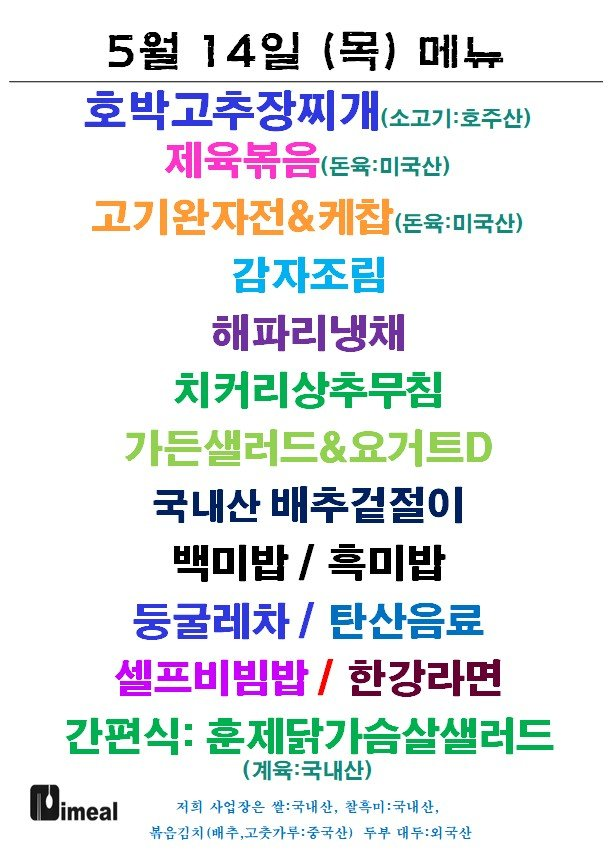
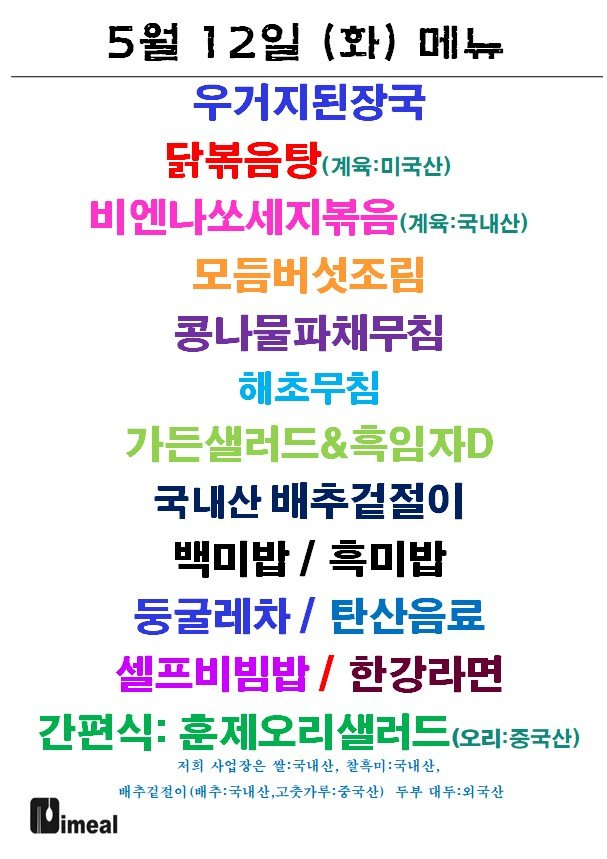
Update menu board assets

Changed region(s): [[0.0297, 0.0303, 0.9786, 0.9988]]

diff --git a/menu-today/index.html b/menu-today/index.html
@@ -209,7 +209,7 @@
 
     <section class="meta-bar">
       <div class="meta-card"><div class="meta-label">기준 날짜</div><div class="meta-value">2026년 5월 12일 화요일</div></div>
-      <div class="meta-card"><div class="meta-label">최종 가져온 시간</div><div class="meta-value">2026-05-12 10:18:07</div></div>
+      <div class="meta-card"><div class="meta-label">최종 가져온 시간</div><div class="meta-value">2026-05-12 10:33:13</div></div>
       <div class="meta-card"><div class="meta-label">확인 완료</div><div class="meta-value">10개 식당</div></div>
       <div class="meta-card"><div class="meta-label">준비중</div><div class="meta-value">3개 채널</div></div>
     </section>
@@ -225,7 +225,7 @@
             <div class="sub">현대테라타워 가산DK</div>
           </div>
         </div>
-        <div class="menu-inline-image"><img src="./images/imeal.png" alt="아이밀 식단 이미지"></div><div class="info-note">오늘 메뉴 미수집 상태입니다.</div>
+        <div class="menu-inline-image"><img src="./images/imeal.png" alt="아이밀 식단 이미지"></div><ul><li>우거지된장국</li><li>비엔나쏘세지볶음</li><li>모듬버섯조림</li><li>콩나물파채무침</li><li>해초무침</li><li>가든샐러드 &amp; 흑임자D</li><li>백미밥 / 흑미밥</li><li>여기지 재니제</li><li>닭볶음탕(계육:미국신</li><li>둥굴레차</li><li>타산을료</li><li>가펴시</li><li>거지 지니</li></ul>
       </article>
 
       <article class="restaurant-card">
@@ -265,7 +265,7 @@
             <div class="sub">가산비즈니스센터</div>
           </div>
         </div>
-        <div class="menu-inline-image"><img src="./images/raonfood.png" alt="구내식당라온푸드 식단 이미지"></div><div class="info-note">오늘 메뉴 미수집 상태입니다.</div>
+        <div class="menu-inline-image"><img src="./images/raonfood.png" alt="구내식당라온푸드 식단 이미지"></div><ul><li>자돌김지찌개</li><li>간잠대지불백</li><li>언양식산적 &amp; 파재무침</li><li>하얀콤나물무침</li><li>샐러드 &amp; 드레싱</li></ul>
       </article>
 
       <article class="restaurant-card">
